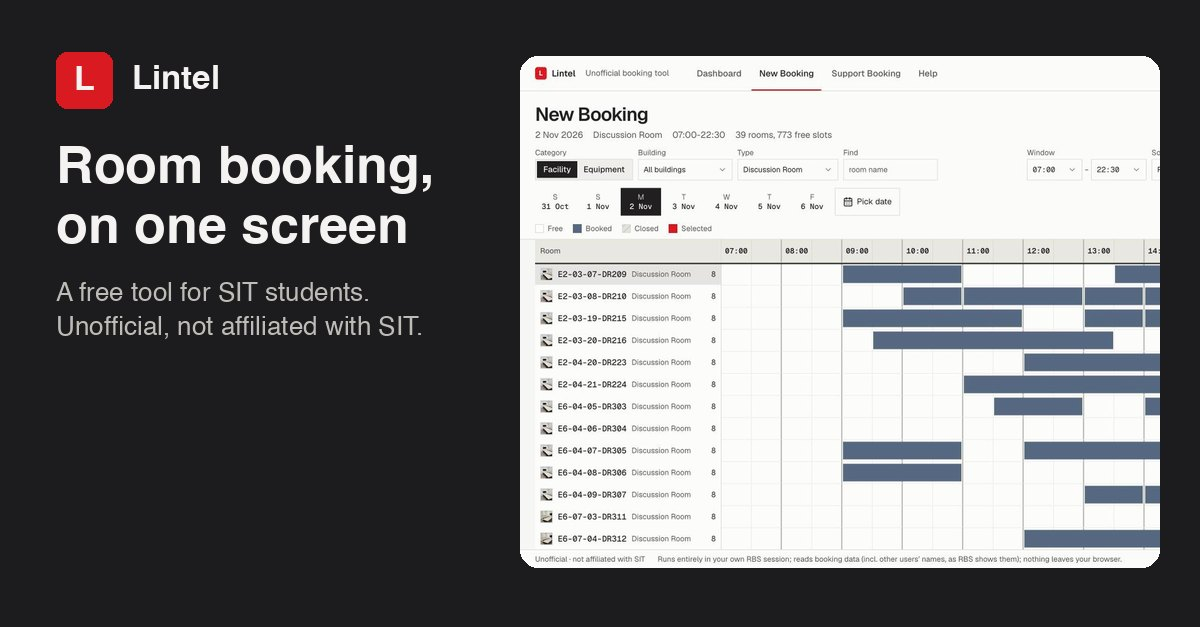
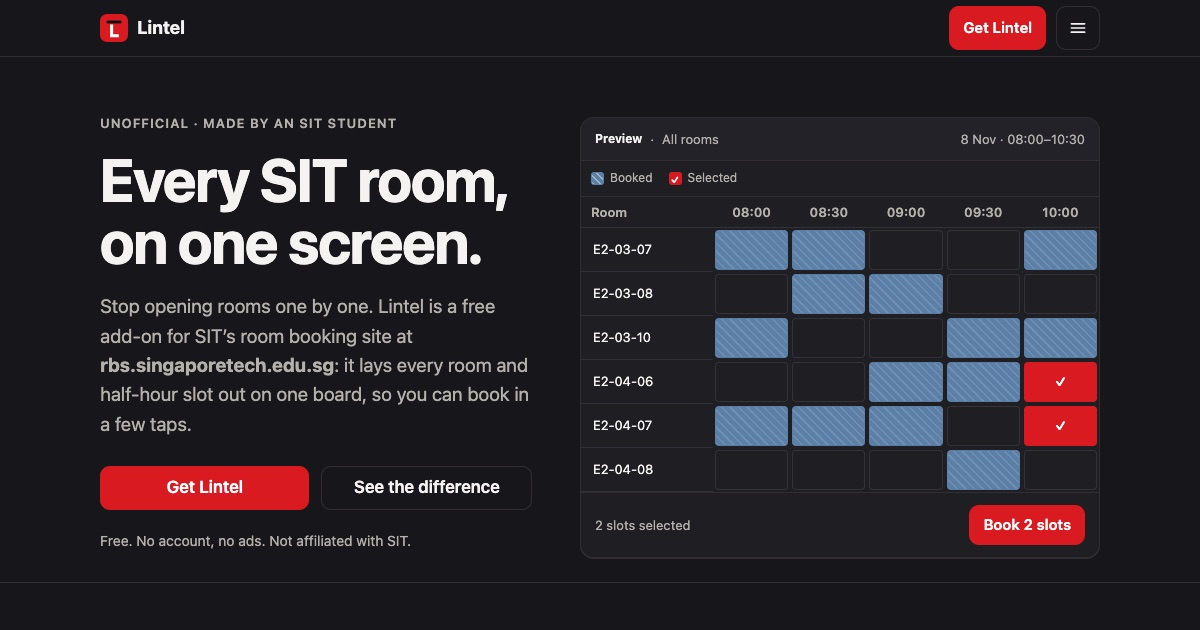
polish(site): real share card, legible feature shots, one palette, one chevron
- images/share.jpg is now a 1200x630 capture of the new hero (it showed the retired
  desktop layout), with og:image:width/height/alt and a summary_large_image card.
- The three feature screenshots were 1280px captures at 348px; they now scroll at
  560px on a phone, with one instruction for the section instead of three.
- install.html and privacy.html use the homepage tokens (#fbfaf7, #1c1b1d, #e2ded5,
  #f1efe8, #232228) so the pages stop drifting apart.
- install.html had two chevron conventions: the platform row flipped 180 and the step
  row rotated 90. Both flip 180 now. Dropped the Chrome intro line that repeated its
  own summary.

diff --git a/install.html b/install.html
@@ -8,18 +8,18 @@
 <link rel="icon" type="image/png" sizes="128x128" href="/icon128.png" />
 <link rel="apple-touch-icon" href="/icon128.png" />
 <style>
-  body { max-width: 560px; margin: 0 auto; padding: 24px 16px 40px; font: 16px/1.6 system-ui, sans-serif; color: #1c1b1a; background: #fff; }
+  body { max-width: 560px; margin: 0 auto; padding: 24px 16px 40px; font: 16px/1.6 system-ui, sans-serif; color: #1c1b1d; background: #fbfaf7; }
   h1 { font-size: 28px; margin-bottom: 4px; }
   li { margin-bottom: 8px; }
   .btn { display: block; margin: 16px 0; padding: 14px 16px; text-align: center; font-weight: 600; color: #fff; background: #da1a21; border-radius: 8px; text-decoration: none; }
-  img.step { display: block; width: 100%; height: auto; margin: 12px 0; border: 1px solid #dcd9d1; border-radius: 10px; }
+  img.step { display: block; width: 100%; height: auto; margin: 12px 0; border: 1px solid #e2ded5; border-radius: 10px; }
   img.step.phone { max-width: 320px; margin-left: auto; margin-right: auto; }
-  .btn.alt { color: #1c1b1a; background: transparent; border: 1px solid #dcd9d1; }
-  .note { padding: 12px; font-size: 14px; background: #f1f0ec; border-radius: 8px; }
+  .btn.alt { color: #1c1b1d; background: transparent; border: 1px solid #e2ded5; }
+  .note { padding: 12px; font-size: 14px; background: #f1efe8; border-radius: 8px; }
 
   /* Accordion: a platform is one closed row until opened; each step inside is
      another closed row. Everything is <details>, so it works with no script. */
-  details.plat { margin: 14px 0; padding: 0 14px; border: 1px solid #dcd9d1; border-radius: 12px; scroll-margin-top: 16px; }
+  details.plat { margin: 14px 0; padding: 0 14px; border: 1px solid #e2ded5; border-radius: 12px; scroll-margin-top: 16px; }
   details.plat > summary { display: grid; grid-template-columns: 1fr auto; align-items: center; gap: 2px 10px; padding: 14px 0; font-size: 17px; font-weight: 600; cursor: pointer; list-style: none; }
   details.plat > summary::-webkit-details-marker { display: none; }
   details.plat > summary .chev { grid-column: 2; grid-row: 1 / span 2; font-size: 18px; color: #8a8783; transition: transform .15s ease; }
@@ -30,15 +30,15 @@
   details.step { border-top: 1px solid #eceae5; }
   details.step > summary { display: flex; gap: 8px; padding: 12px 0; font-size: 15px; font-weight: 600; cursor: pointer; list-style: none; }
   details.step > summary::-webkit-details-marker { display: none; }
-  details.step > summary::after { content: '›'; margin-left: auto; color: #b3b0aa; transition: transform .15s ease; }
-  details.step[open] > summary::after { transform: rotate(90deg); }
+  details.step > summary::after { content: '⌄'; margin-left: auto; color: #8a8783; transition: transform .15s ease; }
+  details.step[open] > summary::after { transform: rotate(180deg); }
   details.step .body { padding: 0 0 14px; font-size: 15px; }
   details.step .body > :first-child { margin-top: 0; }
   details.plat[open] > details.step:first-of-type { border-top: none; }
 
   @media (prefers-color-scheme: dark) {
     body { color: #f4f3f1; background: #1c1b1d; }
-    .note { background: #2c2a2d; }
+    .note { background: #232228; }
     .btn.alt { color: #f4f3f1; border-color: #4a484b; }
     img.step { border-color: #3b393c; }
     a:not(.btn) { color: #f59a9e; }
@@ -56,7 +56,6 @@
 
 <details class="plat" id="chrome">
   <summary><span>Chrome</span><span class="sub">laptop or desktop · 4 steps · about a minute</span><span class="chev">⌄</span></summary>
-  <p class="intro">For laptops and desktops. It takes about a minute.</p>
 
   <details class="step">
     <summary>1. Add it from the Chrome Web Store</summary>

diff --git a/index.html b/index.html
@@ -9,6 +9,10 @@
 <meta property="og:description" content="A free, unofficial room booking tool made by an SIT student." />
 <meta property="og:image" content="https://lintel.leeguanfeng.com/images/share.jpg" />
 <meta property="og:url" content="https://lintel.leeguanfeng.com/" />
+<meta property="og:image:width" content="1200" />
+<meta property="og:image:height" content="630" />
+<meta property="og:image:alt" content="Lintel: every SIT room and half-hour slot on one board." />
+<meta name="twitter:card" content="summary_large_image" />
 <meta name="theme-color" content="#fbfaf7" media="(prefers-color-scheme: light)" />
 <meta name="theme-color" content="#17161a" media="(prefers-color-scheme: dark)" />
 <link rel="icon" type="image/svg+xml" href="/icon.svg" />
@@ -153,6 +157,9 @@
   .feature:last-child { border-bottom: 0; padding-bottom: 0; }
   .feature p { color: var(--muted); margin: 0; }
   .feature .shot { border: 1px solid var(--line); border-radius: 12px; overflow: hidden; background: var(--panel); }
+  .feature .shot.scroller { overflow-x: auto; }
+  .feature .shot .wide-shot { width: 560px; max-width: none; }
+  @media (min-width: 760px) { .feature .shot .wide-shot { width: 100%; } }
   .feature .shot img { width: 100%; }
 
   .checks { display: grid; gap: 14px; margin: 0; padding: 0; list-style: none; }
@@ -357,17 +364,18 @@
     <div class="wrap">
       <span class="eyebrow">What you can do</span>
       <h2>More than one slot at a time</h2>
+      <p class="sub">The screenshots below scroll sideways — swipe one to read it.</p>
       <div class="feature">
         <div><h3>Book several slots at once</h3><p>Select a few slots, even across rooms, then review them before you confirm.</p></div>
-        <div class="shot"><img src="/images/booking.jpg" alt="Confirm booking dialog showing the room, date and selected slots." width="1280" height="800" loading="lazy" /></div>
+        <div class="shot scroller"><img src="/images/booking.jpg" alt="Confirm booking dialog showing the room, date and selected slots." width="1280" height="800" loading="lazy" class="wide-shot" /></div>
       </div>
       <div class="feature">
         <div><h3>Book lab equipment</h3><p>Browse equipment by type and lab, and see each item’s own hours.</p></div>
-        <div class="shot"><img src="/images/equipment.jpg" alt="Equipment board listing items in rows with their available slots." width="1280" height="800" loading="lazy" /></div>
+        <div class="shot scroller"><img src="/images/equipment.jpg" alt="Equipment board listing items in rows with their available slots." width="1280" height="800" loading="lazy" class="wide-shot" /></div>
       </div>
       <div class="feature">
         <div><h3>Laptop or phone, light or dark</h3><p>Use it in Chrome, on iPhone or on Android. Bookings, cancellations and your credit balance sit in one dashboard.</p></div>
-        <div class="shot"><img src="/images/dark.jpg" alt="Lintel board in dark theme." width="1280" height="800" loading="lazy" /></div>
+        <div class="shot scroller"><img src="/images/dark.jpg" alt="Lintel board in dark theme." width="1280" height="800" loading="lazy" class="wide-shot" /></div>
       </div>
     </div>
   </section>

diff --git a/privacy.html b/privacy.html
@@ -8,7 +8,7 @@
 <link rel="icon" type="image/png" sizes="128x128" href="/icon128.png" />
 <link rel="apple-touch-icon" href="/icon128.png" />
 <style>
-  body { max-width: 680px; margin: 0 auto; padding: 32px 16px; font: 16px/1.6 system-ui, sans-serif; color: #1c1b1a; background: #fff; }
+  body { max-width: 680px; margin: 0 auto; padding: 32px 16px; font: 16px/1.6 system-ui, sans-serif; color: #1c1b1d; background: #fbfaf7; }
   h1 { font-size: 28px; margin-bottom: 4px; }
   h2 { font-size: 18px; margin-top: 28px; }
   @media (prefers-color-scheme: dark) { body { color: #f4f3f1; background: #1c1b1d; } a { color: #f59a9e; } }
